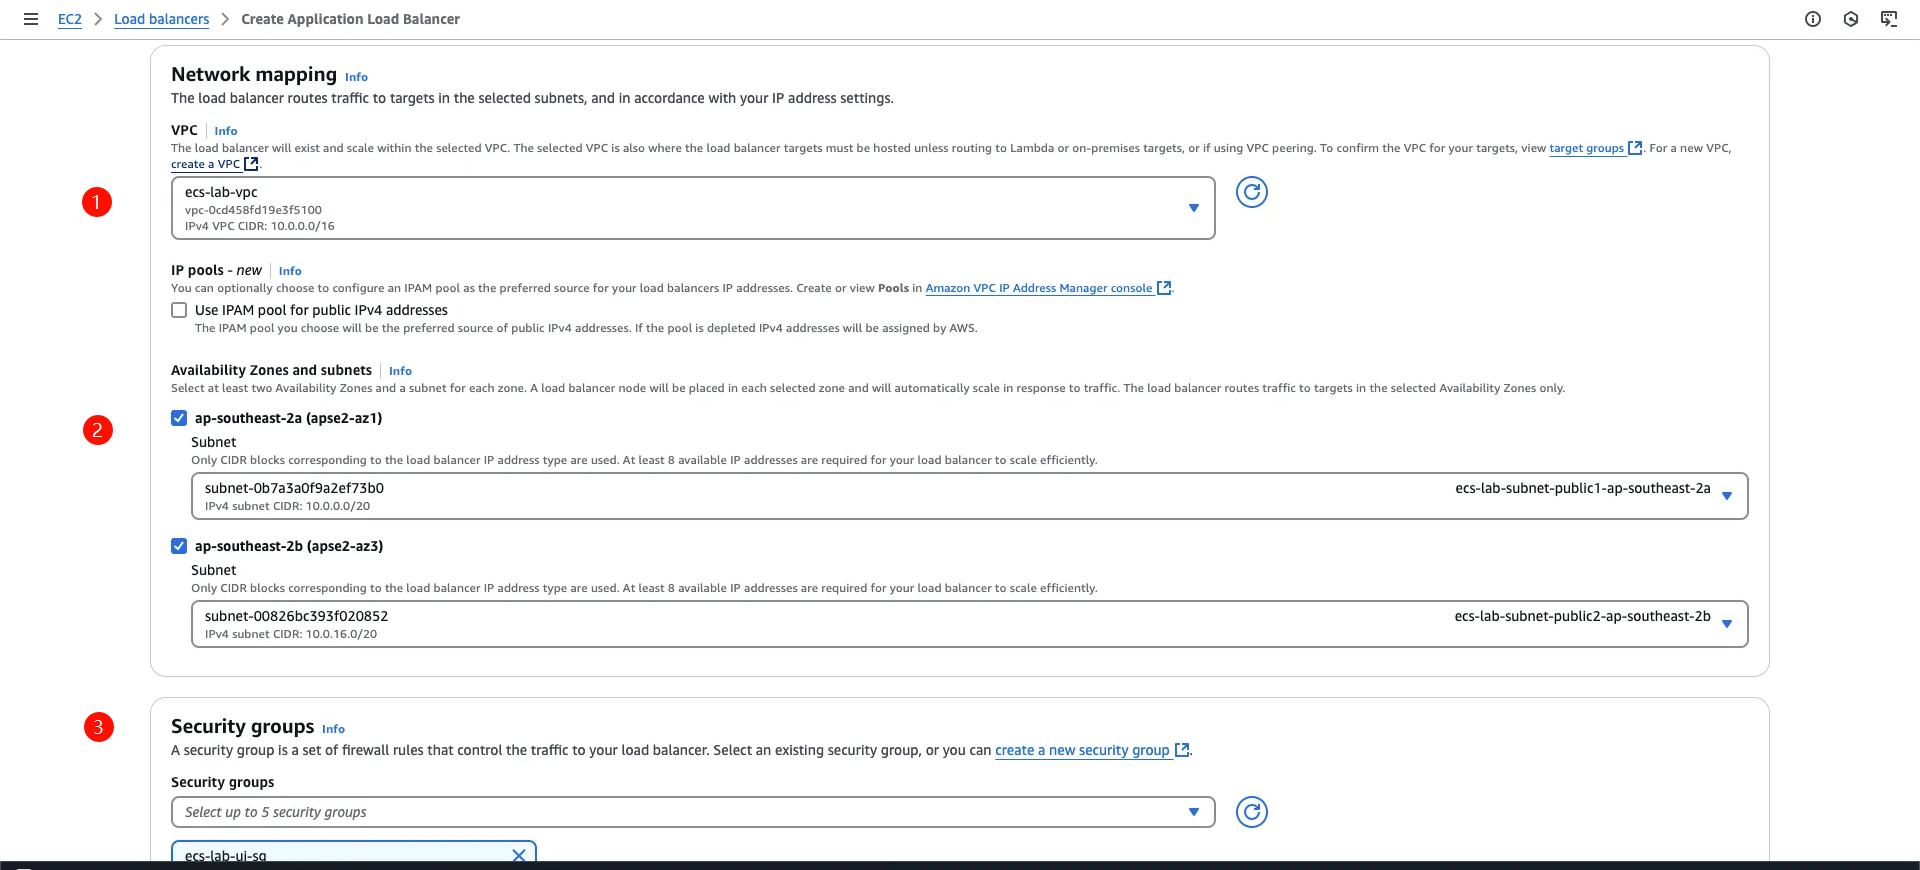
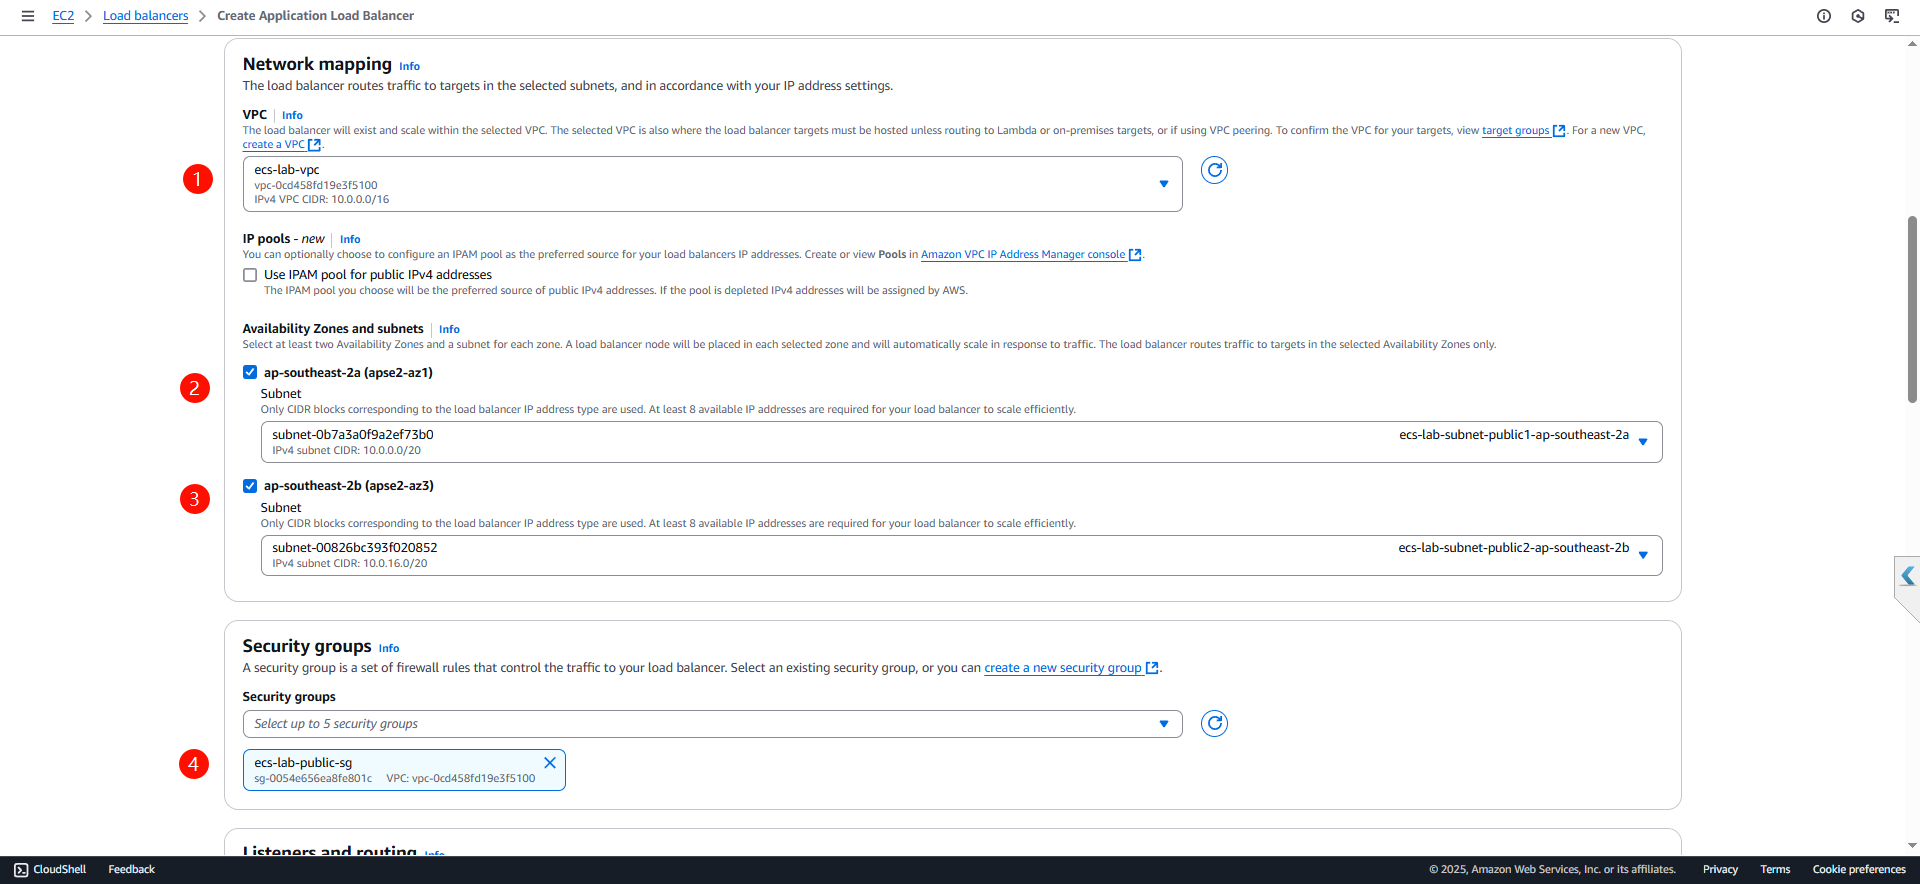
fix: replace wrong load balancer security group

diff --git a/fundamentals/content/2-prerequisites/4-load-balancer/_index.vi.md b/fundamentals/content/2-prerequisites/4-load-balancer/_index.vi.md
@@ -76,9 +76,10 @@ Target Group là thành phần định nghĩa các đích đến (targets) mà L
 ![ALB Basic Configuration](/images/2-prerequisites/4-load-balancer/image-5.png)
 
    - Network: Chọn VPC và public subnets
+   - Security Group: `ecs-lab-public-sg` (cho phép inbound HTTP 80 & HTTPS 443)
+
 ![Network Configuration](/images/2-prerequisites/4-load-balancer/image-6.png)
 
-   - Security Group: `ecs-lab-ui-sg` (cho phép inbound HTTP 80)
    - Listener: HTTP 80 forward đến target group `ui-application`
 ![Listener Configuration](/images/2-prerequisites/4-load-balancer/image-8.png)
 

diff --git a/fundamentals/content/2-prerequisites/4-load-balancer/_index.md b/fundamentals/content/2-prerequisites/4-load-balancer/_index.md
@@ -77,9 +77,10 @@ Target Group defines the destinations (targets) that the Load Balancer will forw
 ![ALB Basic Configuration](/images/2-prerequisites/4-load-balancer/image-5.png)
 
    - Network: Select VPC and public subnets
+   - Security Group: `ecs-lab-public-sg` (allows inbound HTTP 80 & HTTPS 443)
+
 ![Network Configuration](/images/2-prerequisites/4-load-balancer/image-6.png)
 
-   - Security Group: `ecs-lab-ui-sg` (allows inbound HTTP 80)
    - Listener: HTTP 80 forward to target group `ui-application`
 ![Listener Configuration](/images/2-prerequisites/4-load-balancer/image-8.png)
 

diff --git a/fundamentals/content/2-prerequisites/3-security-groups/_index.vi.md b/fundamentals/content/2-prerequisites/3-security-groups/_index.vi.md
@@ -56,6 +56,7 @@ Chúng ta sẽ khởi tạo 3 Security Group cho kiến trúc của mình:
    - Inbound Rules:
      - Port 80 (HTTP)
      - Port 443 (HTTPS)
+     - Port 22 (SSH)
    - Outbound Rules: Cho phép tất cả lưu lượng
 4. Thêm tags (tùy chọn)
 5. Chọn Create Security Group

diff --git a/fundamentals/content/2-prerequisites/3-security-groups/_index.md b/fundamentals/content/2-prerequisites/3-security-groups/_index.md
@@ -55,6 +55,7 @@ We will create 3 Security Groups for our architecture:
    - Inbound Rules:
      - Port 80 (HTTP)
      - Port 443 (HTTPS)
+     - Port 22 (SSH)
    - Outbound Rules: Allow all traffic
 4. Add tags (optional)
 5. Select Create Security Group
